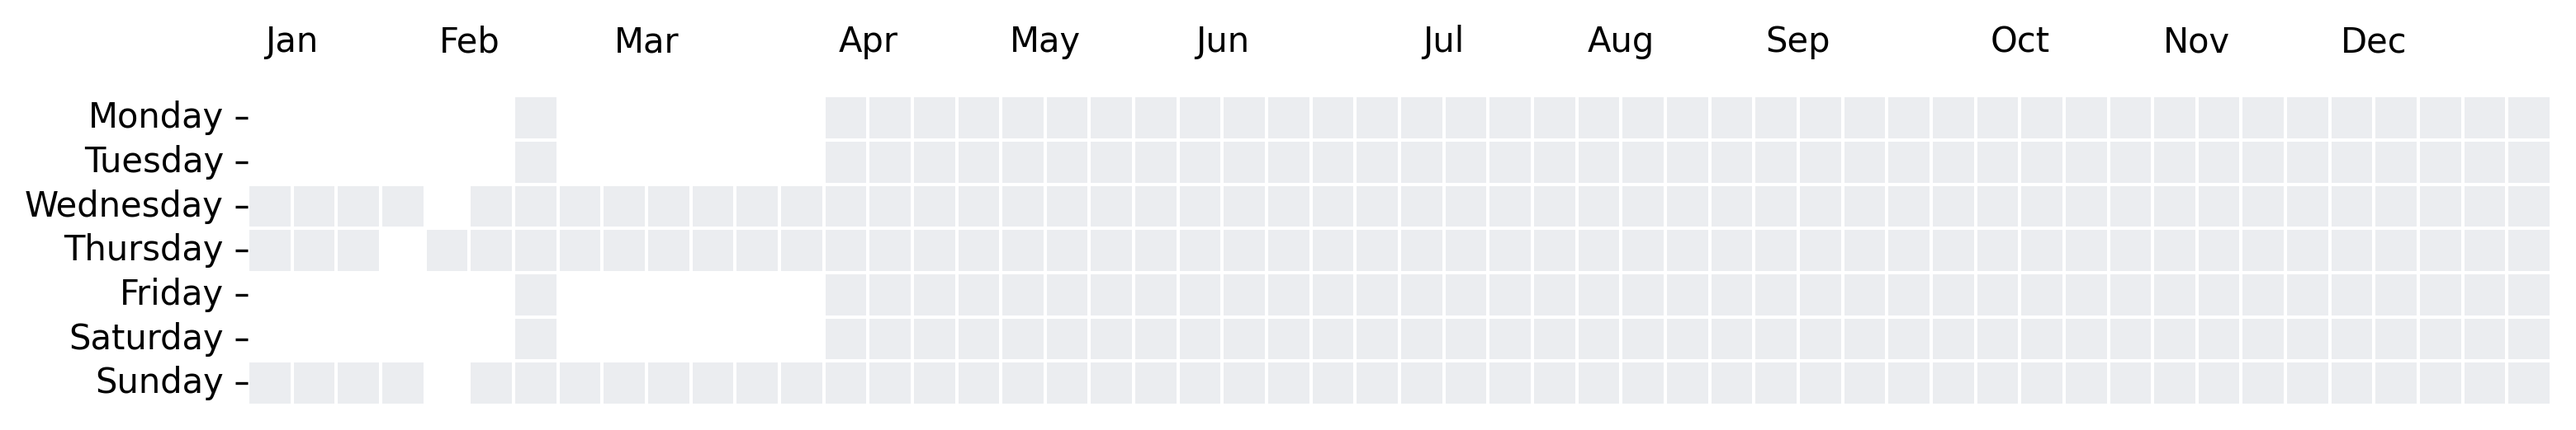
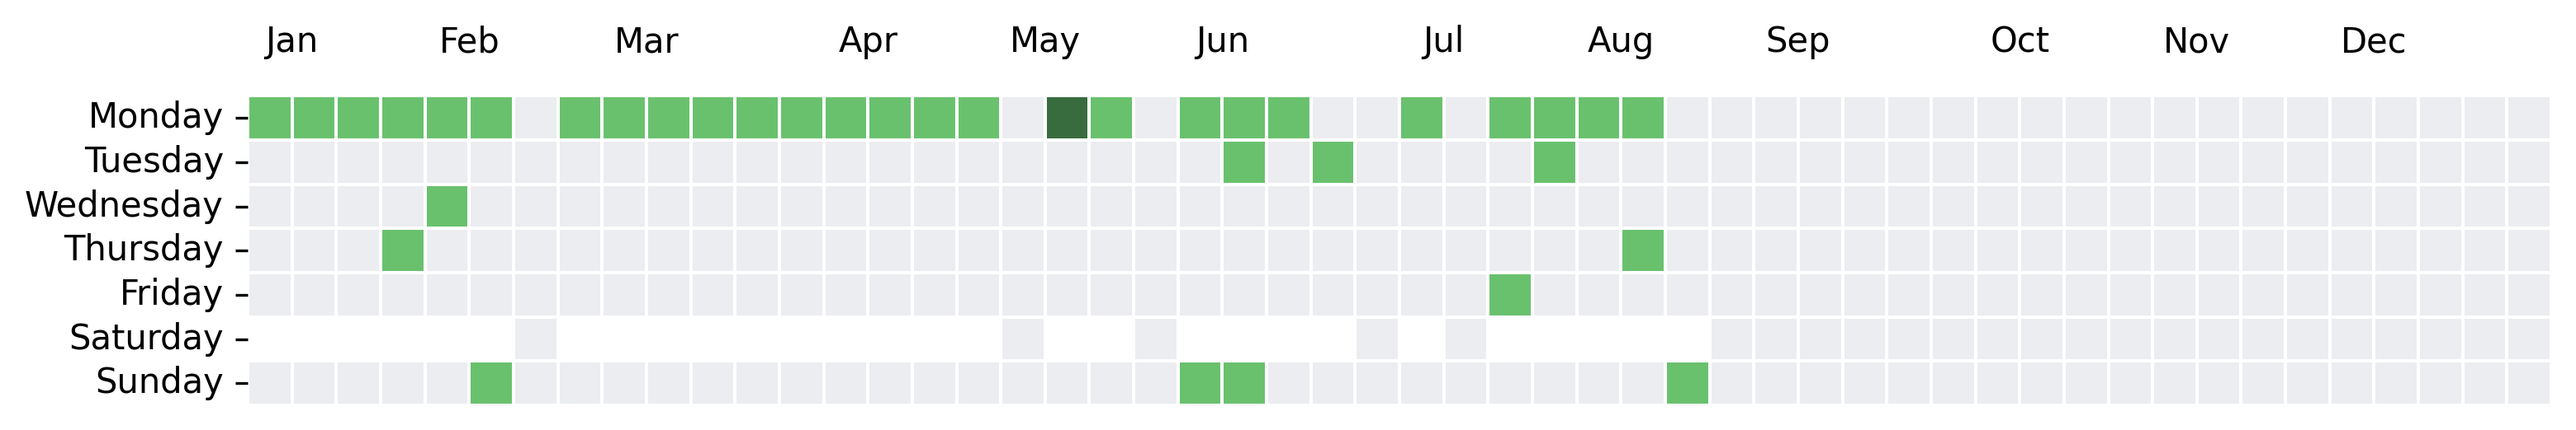
Updated Youtube build python script

diff --git a/build_youtube.py b/build_youtube.py
@@ -6,49 +6,70 @@ import calendar
 from datetime import datetime
 from matplotlib.colors import LinearSegmentedColormap
 
+# Load data
 data = pd.read_csv("Table data.csv")
+
 # Convert 'Video publish time' to datetime
 data['Video publish time'] = pd.to_datetime(data['Video publish time'])
 
-data['Week'] = data['Video publish time'].dt.isocalendar().week
+# Handle NaT values by either filling them or dropping them
+data = data.dropna(subset=['Video publish time'])
+
+# Calculate week number, ensuring Sunday is treated as part of the current week
+data['Week'] = data['Video publish time'].apply(
+    lambda x: x.isocalendar()[1] if x.weekday() != 6 else (x.isocalendar()[1] + 1)
+)
+
+# Adjust for edge cases where the week number might exceed 52
+data['Week'] = data['Week'].apply(lambda x: 1 if x > 52 else x)
+
+# Extract day name
 data['Day of Week'] = data['Video publish time'].dt.day_name()
 
-# Filter the current year
+# Filter the data for the current year
 current_year = datetime.now().year
 data = data[data['Video publish time'].dt.year == current_year]
 
 # Group by week and day of the week, then count videos
 grouped_data = data.groupby(['Week', 'Day of Week']).size().reset_index(name='Video Count')
 
-# pivot the data to get a matrix format
-heatmap_data = grouped_data.pivot (index="Day of Week", columns="Week", values="Video Count").fillna(0)
+# Pivot the data to get a matrix format
+heatmap_data = grouped_data.pivot(index="Day of Week", columns="Week", values="Video Count").fillna(0)
 
 # Sort the days of the week
-days_order = ['Monday','Tuesday', 'Wednesday', 'Thursday', 'Friday', 'Saturday','Sunday']
+days_order = ['Monday', 'Tuesday', 'Wednesday', 'Thursday', 'Friday', 'Saturday', 'Sunday']
 heatmap_data = heatmap_data.reindex(days_order)
 
 # Create a complete index for all the weeks of the current year
-all_weeks = pd.Series(range(1,53))
+all_weeks = pd.Series(range(1, 53))
 
-# Redindex heatmap_data to include all weeks, filling missing weeks with zeros
+# Reindex heatmap_data to include all weeks, filling missing weeks with zeros
 heatmap_data = heatmap_data.reindex(columns=all_weeks, fill_value=0)
 
-# Define your specific RGB colors (normalized to 0-1 range)
-colors = [(235/255, 237/255, 240/255),  # light grey color
-          (105/255, 193/255, 110/255),  # green 2 color
-          (82, 155, 185),               # green 3 color
-          (56,108, 62),
-          (56,108, 62),
-          (56,108, 62)]                 # green 4 color
+# Normalize colors to 0-1 range for the colormap
+colors = [
+    (235/255, 237/255, 240/255),  # light grey (no contribution)
+    (105/255, 193/255, 110/255),  # light green (low contribution)
+    (56/255, 108/255, 62/255)     # dark green (high contribution)
+]
 
-# Create a custom colormap
-custom_cmap = LinearSegmentedColormap.from_list("custom_cmap", colors)
+# Create a custom colormap with a linear gradient between the colors
+custom_cmap = LinearSegmentedColormap.from_list("custom_cmap", colors, N=256)
 
 # Set the size of the heatmap
 plt.figure(figsize=(12, 6))
 
-# Create the heatmap without annotations
-ax = sns.heatmap(heatmap_data, cmap=custom_cmap, linewidths=.5, linecolor='white', cbar=False, square=True)
+# Create the heatmap with explicit vmin and vmax
+ax = sns.heatmap(
+    heatmap_data, 
+    cmap=custom_cmap, 
+    linewidths=.5, 
+    linecolor='white', 
+    cbar=False, 
+    square=True,
+    vmin=0,  # Ensure 0 maps to the light grey
+    vmax=heatmap_data.max().max()  # Scale the max value properly
+)
 
 # Annotate with month names
 for month in range(1, 13):
@@ -59,6 +80,7 @@ ax.set_xticks([])
 ax.set_xlabel('')
 ax.set_ylabel('')
 
+# Save the figure
 plt.savefig('web/assets/img/yt_heatmap.png', dpi=300, bbox_inches='tight')
 
 # plt.show()
